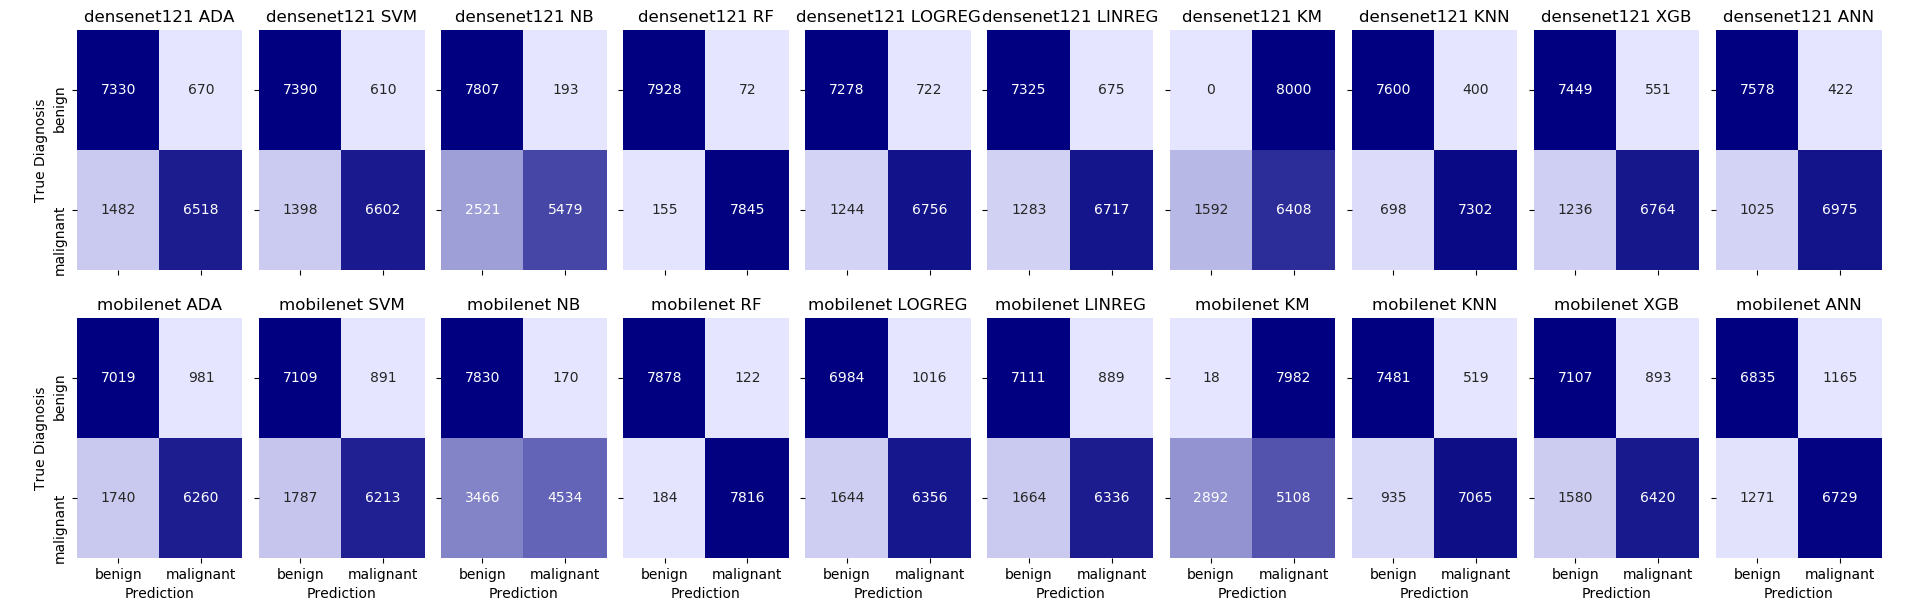
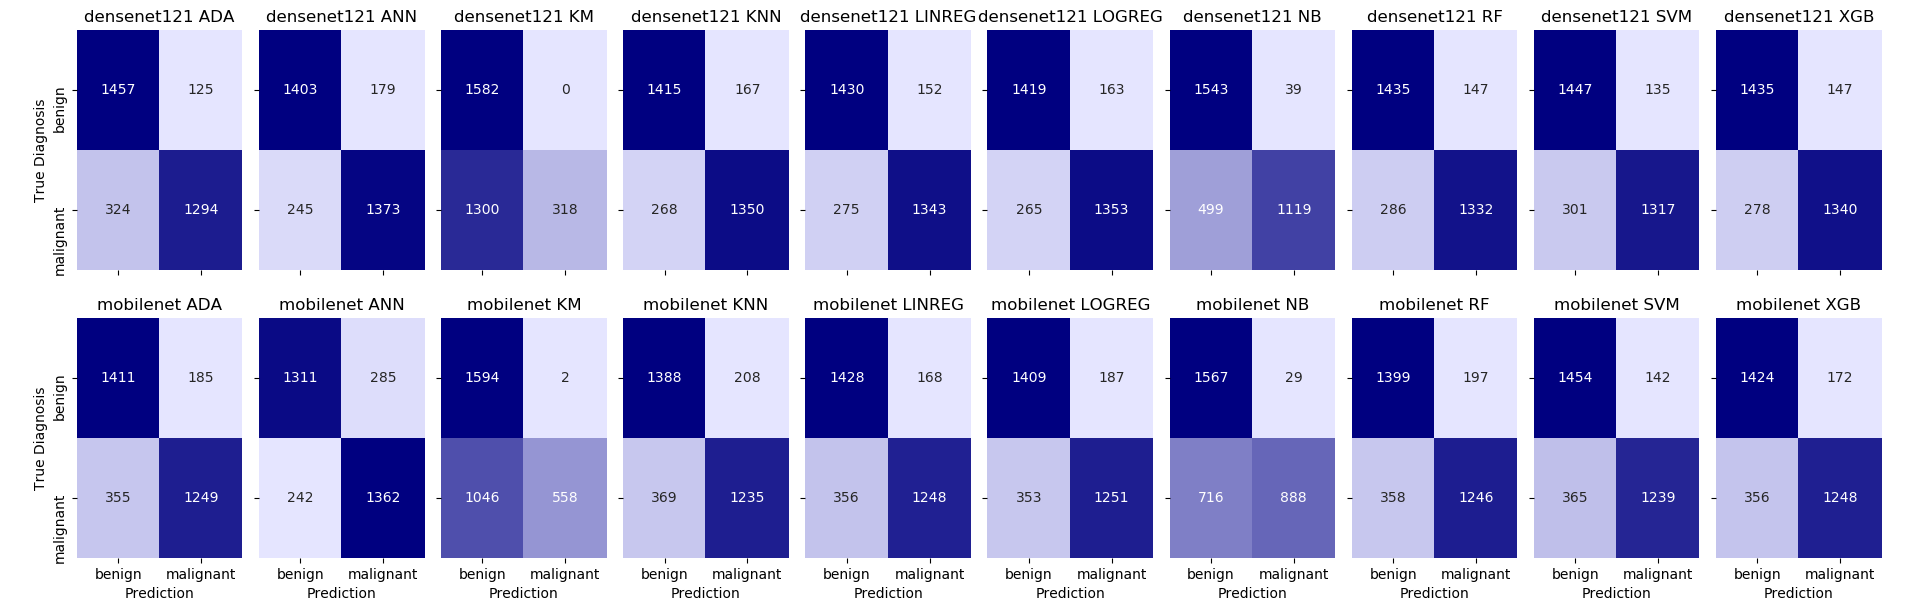
Stacked confmats working wonderfully.

diff --git a/models/ensemble/model-evaluation.py b/models/ensemble/model-evaluation.py
@@ -3,6 +3,7 @@
 import os, sys, pickle, logging
 import numpy as np
 import tensorflow.keras as keras
+from tensorflow.keras.models import Model
 
 os.environ['TF_CPP_MIN_LOG_LEVEL'] = '3'
 logging.getLogger('tensorflow').setLevel(logging.FATAL)
@@ -20,7 +21,11 @@ for cnn in models:
 		if model.name == 'ANN':
 			model.src = keras.models.load_model(f'models/pkl/ANN-{cnn}.h5')
 
+print('Loaded all stacked models')
+
 # execute models on data to get predictions
+
+# TODO: eval outputs of CNNs themselves (compute stacked ANN on CNN vectors - requires loading CNN h5's)
 
 outputs = { "densenet121": {}, "mobilenet": {}, 'true_labels': {} }
 
@@ -32,15 +37,39 @@ for cnn in models:
 	for model in models[cnn]:
 		# get predictions for accuracy and confusion matrices
 		outputs[cnn][model.name] = {
-			"train": np.identity(2)[model.predict(Xt)],
-			"valid": np.identity(2)[model.predict(Xv)],
-			"test": np.identity(2)[model.predict(Xte)]
+			"train": model.predict(Xt),
+			"valid": model.predict(Xv),
+			"test": model.predict(Xte)
 		}
 
+print('Evaluated all stacked models')
+
+# for cnn in models:
+# 	Xt, Xv, Yt, Yv = split_vectors[cnn]
+# 	Xte, Yte = load_xy(cnn + '-test')
+#
+# 	base_model = keras.models.load_model(f'models/h5/{cnn}-binary.h5')
+# 	model = Model(inputs=base_model.get_layer('batch_normalization').input, outputs=base_model.output)
+#
+# 	outputs[cnn]['cnn'] = {
+# 		"train": model.predict(Xt),
+# 		"valid": model.predict(Xv),
+# 		"test": model.predict(Xte)
+# 	}
+# print('Evaluated both CNNs')
+
+# these are categorical for some reason
+# also remember that different valid datasets are used for the two CNNs
 outputs['true_labels'] = {
-	"train": split_vectors['mobilenet'][2],
-	"valid": split_vectors['mobilenet'][3],
-	"test": load_xy(cnn + '-test')[1]
+	"densenet121": {
+		"train": split_vectors['densenet121'][2],
+		"valid": split_vectors['densenet121'][3],
+		"test": load_xy('densenet121-test')[1]
+	}, "mobilenet": {
+		"train": split_vectors['mobilenet'][2],
+		"valid": split_vectors['mobilenet'][3],
+		"test": load_xy('mobilenet-test')[1]
+	}
 }
 
 outputs['acc'] = { cnn: { model.name: model.acc for model in models[cnn] } for cnn in ['densenet121', 'mobilenet'] }
@@ -49,7 +78,7 @@ outputs['acc'] = { cnn: { model.name: model.acc for model in models[cnn] } for c
 outputs = {
 	"mobilenet": { "ADA": { "train": (samples, features), "valid": ..., "test": ... }, ... }
 	"densenet121": ...,
-	"true_labels": { "train": (samples, 2), "valid": ..., "test": ... },
+	"true_labels": { "densenet121": { "train": (samples, 2), "valid": ..., "test": ... }, ...},
 	"acc": { "mobilenet": { "ADA": 0.99, ... }, "densenet121": ... }
 }
 """

diff --git a/models/ensemble/results-eda.py b/models/ensemble/results-eda.py
@@ -3,7 +3,7 @@ import pickle, sys
 import numpy as np
 import matplotlib.pyplot as plt
 import seaborn as sns
-from sklearn.metrics import confusion_matrix
+from sklearn.metrics import confusion_matrix, accuracy_score
 sys.path.append('./models')
 from model_utils import load_xy
 
@@ -14,16 +14,17 @@ my_cmap = sns.light_palette("Navy", as_cmap=True)
 
 print('Loaded data')
 
-for y, cnn in enumerate(data.keys()):
-	true_labels = data['true_labels']['valid']
+for y, cnn in enumerate(['densenet121', 'mobilenet']): # can't use data.keys() as this includes 'true_labels' and 'acc'
+	true_labels = data['true_labels'][cnn]['valid']
 
 	for x, model in enumerate(data[cnn].keys()):
-		if x >= num_models: continue # NOTE: is this choosing the best 5 models?
-		# TODO: note that ANNs weren't even in the top 5 models - this approach is better?
-		# maybe make sure it's actually validation data?
+		if x >= num_models: continue
 
-		predictions = np.clip(np.round(data[cnn][model]['valid']), 0, 1)
-		confmat = confusion_matrix(true_labels, predictions)
+		predictions = data[cnn][model]['valid']
+		predictions = np.clip(np.round(predictions), 0, 1)
+		confmat = confusion_matrix(true_labels, np.argmax(predictions, axis=1))
+		acc = accuracy_score(true_labels, np.argmax(predictions, axis=1))
+		print(f'{cnn}-{model} valid acc {str(acc*100)}%, reported valid acc {str(data["acc"][cnn][model]*100)}%')
 
 		ax = axs[y][x]
 		sns.heatmap(confmat, ax=ax, annot=True, cmap=my_cmap, cbar=(x == num_models), fmt='d')

diff --git a/models/ensemble/unweighted_average.py b/models/ensemble/unweighted_average.py
@@ -14,7 +14,7 @@ test_size = 2000
 num_cnns = 2
 num_models = len(outputs['mobilenet'].keys())
 
-true_labels = outputs['true_labels']['test']
+true_labels = outputs['true_labels']['mobilenet']['test']
 
 predictions = np.zeros((test_size,2))
 

diff --git a/models/ensemble/weighted_average.py b/models/ensemble/weighted_average.py
@@ -14,7 +14,7 @@ test_size = 2000
 num_cnns = 2
 num_models = len(outputs['mobilenet'].keys())
 
-true_labels = outputs['true_labels']['test']
+true_labels = outputs['true_labels']['mobilenet']['test']
 
 predictions = np.zeros((test_size,2))
 

diff --git a/models/stacked/linreg.py b/models/stacked/linreg.py
@@ -24,4 +24,4 @@ class Model (BaseModel):
 		self.acc = acc
 
 	def predict (self, X):
-		return self.onehot_from_cat(self.src.predict(X))
+		return self.onehot_from_cat(np.asarray(np.clip(np.round(self.src.predict(X)), 0, 1), dtype='int'))
